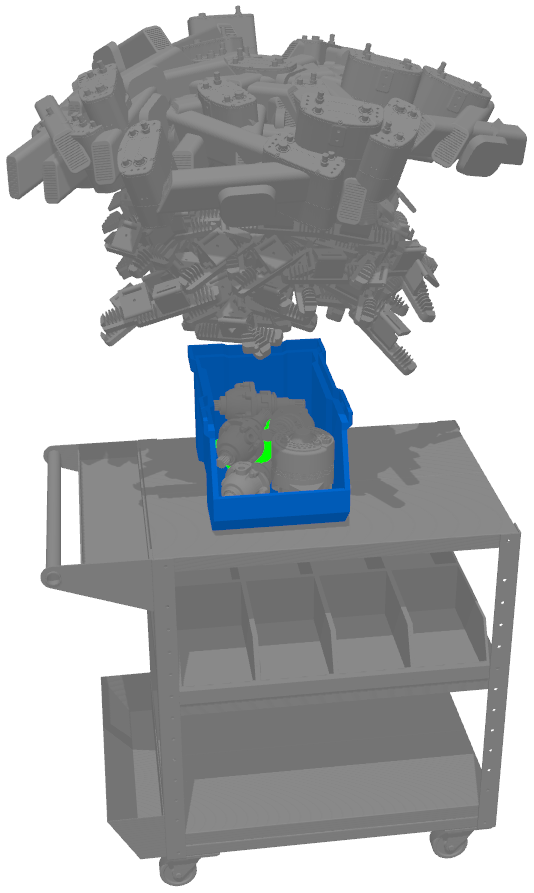
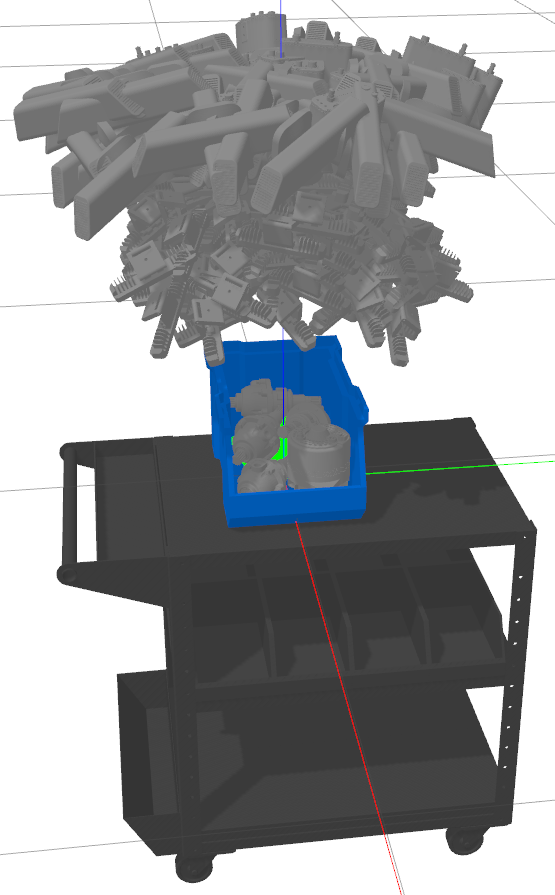
Added main algorithms for best views estimation.

diff --git a/tex/sections/best-views-estimation.tex b/tex/sections/best-views-estimation.tex
@@ -1,25 +1,77 @@
 \section{\scshape Best views estimation}
 \subsection*{Best views estimation}
-\begin{frame}{Estimation of the best sensor configuration}
+
+\begin{frame}{Reference surface point cloud}
 	\begin{itemize}
-		\item Given a set of observation positions
+		\item The first step in the processing pipeline includes the generation of the multi-object reference point cloud that is assembled using the CAD data and the objects poses given by the simulator, which is later on filtered with a voxel grid algorithm to perform a regular spatial partition and extract the points that are in the surface voxels centroids
+	\end{itemize}
+	\begin{figure}
+		\centering
+		\includegraphics[height=.27\textheight]{sensor-data-processing/multimodel-environment}
+		\includegraphics[height=.27\textheight]{sensor-data-processing/multimodel-pointclouds-with-cad}
+		\includegraphics[height=.27\textheight]{sensor-data-processing/multimodel-pointclouds}
+		\includegraphics[height=.27\textheight]{sensor-data-processing/cad-model-pointcloud}
+		\caption{The first image illustrates the color scene rendering in gazebo with the target objects in green while the second and third images display the reference point cloud that was generated from the CAD points data shown on the last image}
+	\end{figure}
+\end{frame}
+
+\begin{frame}{Sensors data analysis}
+	\begin{itemize}
+		\item Given a set of deployed sensors in the simulation world, for each sensor it is computed the voxelized point cloud of the observed target object(s) points:
 		\begin{itemize}
-			\item If only one sensor is available
+			\item Color segmentation is performed to identify the sensor image pixels that belong to the target object(s) (which have a unique pure green material)
+			\item For the selected pixels, the depth points are generated using the pin hole camera model
+			\item The generated point cloud is transformed from the sensor into the world coordinate system frame
 			\begin{itemize}
-				\item Analyze all sensors data from each observation position
-				\item Apply a voxel grid space partition to avoid reduce variability of the estimated surface area observed by each sensor
-				\item Choose the sensor that can observe the most surface area of the objects
+				\item Allows fast merging of point clouds generated from different sensors
+			\end{itemize}
+			\item A voxel grid filtering algorithm is applied to perform a regular space partition in which the points centroid are computed for each voxel
+			\begin{itemize}
+				\item Critical for allowing consistent evaluation of the object(s) observed surface percentage, even when the sensors have different resolution and are at different distances from the target object(s)
 			\end{itemize}
 		\end{itemize}
-		\item Given a set of observation positions
+	\end{itemize}
+\end{frame}
+
+
+\begin{frame}{Sensor data analysis}
+	\begin{figure}
+		\centering
+		\includegraphics[height=.32\textheight]{sensor-data-processing/sensors-best-view}\\
+		\vspace{0.5em}
+		\includegraphics[height=.32\textheight]{sensor-data-processing/rviz-sensor-view}
+		\includegraphics[height=.32\textheight]{sensor-data-processing/rviz-sensor-view-without-cad-with-model}
+		\caption{Color image rendered with the gazebo simulator (top image containing the scene and sensor) along with the generated point cloud for the target object taking into consideration the environment occlusions (bottom images, in which the green spheres are the observed points and the blue spheres are from the point cloud of the associated CAD model)}
+	\end{figure}
+\end{frame}
+
+
+\begin{frame}{Estimation of the best sensor configuration}
+	After having the processed data for each deployed sensor:
+	\begin{itemize}
+		\item If only one sensor is enough:
 		\begin{itemize}
-			\item If several sensors area available (type and quantity adjustable)
+			\item Compute the surface area percentage for each sensor
 			\begin{itemize}
-				\item Extract point clouds for each observation point
-				\item Using a RANSAC approach, choose randomly a set a N sensors
-				\item Merge the sensor data and estimate the observable surface area
-				\item At the end of a given number of iterations or if the observable area reaches a given minimum, terminate the search, keeping the best sensor configuration found
+				\item Given that both the reference point cloud and sensor data were filtered with a voxel grid with the same resolution and in the same coordinate system frame, computing the surface percentage can be efficiently computed by simply dividing the number of surface voxel points in the sensor data by the number of surface voxel points in the reference point cloud
 			\end{itemize}
+			\item Choose the sensor that can observe the most surface area percentage of the object(s)
+		\end{itemize}
+	\end{itemize}
+\end{frame}
+
+
+\begin{frame}{Estimation of the best sensor configuration}
+	After having the processed data for each deployed sensor:
+	\begin{itemize}
+		\item If several sensors can be used:
+		\begin{itemize}
+			\item Using a RANSAC approach, choose randomly a set of N sensors
+			\item Merge the sensor data from the selected sensors
+			\item Reapply the voxel filter algorithm to ensure that there are only one point per voxel
+			\item Estimate the observable surface area percentage for the selected sensors
+			\item If current subset of sensors achieved better observable surface percentage, then it becomes the current best views estimation for the sensor configuration
+			\item At the end of a given number of iterations or if the observable surface percentage area reaches a given threshold, the search is terminated, keeping the best sensor configuration found
 		\end{itemize}
 	\end{itemize}
 \end{frame}

diff --git a/tex/sections/sensors-deployment.tex b/tex/sections/sensors-deployment.tex
@@ -4,15 +4,18 @@
 	\begin{itemize}
 		\item For making the estimation of the sensor configuration computational feasible, the 3D continuous space was populated with a given set of sensors that were looking at a given point (with the sensor roll either 0º or random)
 		\item Several populations of sensors can be added to the world
+			\begin{itemize}
+				\item The 3D sensor models will be hidden at rendering time to avoid occlusion of sensor data
+			\end{itemize}
 		\item Each population is of a given sensor type and is deployed within a given region of interest 
 		\begin{itemize}
-			\item This allows to restrict the spatial distribution of the sensors, for example a given set of sensors should only be deployed in the walls or ceiling due to their weight, or it should be very close to the target object given its limited depth measurements range
+			\item This allows to restrict the spatial distribution of the sensors, for example a given set of sensors should be in the walls or ceiling due to their weight, or they should be close to the target object given their limited depth measurements range
 		\end{itemize}
 		\item Currently supported deployment configurations:
 		\begin{itemize}
 			\item Uniform or random deployment within a box
 			\item Uniform or random deployment within a cylinder
-			\item Uniform within a 2D grid (with a given set of rows and columns)
+			\item Uniform within a 2D grid (with a set of rows and columns)
 			\item Uniform along a line
 		\end{itemize}
 	\end{itemize}
@@ -20,7 +23,7 @@
 
 \begin{frame}{Sensors deployment}
 	\begin{itemize}
-		\item For the active perception environment, the sensors were deployed close to the target object, on the top, right and back side of the trolley
+		\item For the active perception environment, 450 sensors were deployed close to the target object, on the top, right and back side of the trolley
 		\item This was done to simulate the closest range in which a dynamically moving sensor attached to a robotic arm could move (taking into consideration the human safety and the sensor minimum measurement distance, that was 0.2 meters)
 	\end{itemize}
 	\begin{figure}
@@ -33,22 +36,26 @@
 
 \begin{frame}{Sensors deployment}
 	\begin{itemize}
-		\item For the single bin picking environments, given that the target object was inside the stacking box, the sensors were deployed close to the target object, but only on top of the trolley, on 3 layers (each with a different type of sensor)
+		\item For the single bin picking environments, given that the target object was inside the stacking box, the sensors were deployed close to the target object, but only on top of the trolley, on 3 layers (each with a different type of sensor).
+		\item In the world with minimal occlusions it was deployed 100 sensors while in the world with significant occlusions it was deployed 300 sensors
+			\begin{itemize}
+				\item Higher spatial sensor density given that the best views have tighter observation regions which could be missed with a sparse sensor deployment
+			\end{itemize}
 	\end{itemize}
 	\begin{figure}
 		\centering
-		\includegraphics[height=.4\textwidth]{sensor-deployment/bin-picking/gazebo-sensors}
-		\includegraphics[height=.4\textwidth]{sensor-deployment/bin-picking-with-occlusions/gazebo-sensors}
+		\includegraphics[height=.24\textwidth]{sensor-deployment/bin-picking/gazebo-sensors}
+		\includegraphics[height=.24\textwidth]{sensor-deployment/bin-picking-with-occlusions/gazebo-sensors}
 		\caption{Sensors deployment on the single bin picking environments}
 	\end{figure}
 \end{frame}
 
 \begin{frame}{Sensors deployment}
 	\begin{itemize}
-		\item For the multiple bin picking environment, given that there were multiple target objects (1 inside the stacking box, 1 on top and 2 on the shelves of the trolley), it was deployed 7 populations of sensors:
+		\item For the multiple bin picking environment, given that there were multiple target objects (1 inside the stacking box, 1 on top and 2 on the shelves of the trolley), it was deployed 450 sensors across 7 populations:
 		\begin{itemize}
-			\item 5 layers simulating fixed sensors on the walls and ceiling
-			\item 2 layers above the trolley, simulating dynamic sensors attached to a robotic arm
+			\item 5 populations simulating fixed sensors on the walls and ceiling
+			\item 2 populations above the trolley, simulating dynamic sensors attached to a robotic arm
 		\end{itemize}
 	\end{itemize}
 	\begin{figure}

diff --git a/tex/sections/modeling.tex b/tex/sections/modeling.tex
@@ -1,4 +1,4 @@
-\section{\scshape Sensors modeling}
+\section{\scshape Sensors and environment modeling}
 \subsection*{Sensors modeling}
 \begin{frame}{Depth sensors modeling}
 	\begin{itemize}
@@ -39,7 +39,6 @@
 \end{frame}
 
 
-\section{\scshape Environments modeling}
 \subsection*{Environments modeling}
 \begin{frame}{Environments modeling}
 	\begin{itemize}

diff --git a/master.tex b/master.tex
@@ -46,6 +46,7 @@
 \input{tex/sections/modeling}
 \input{tex/sections/sensors-deployment}
 \input{tex/sections/best-views-estimation}
+\input{tex/sections/conclusions}
 \input{tex/sections/questions}
 
 

diff --git a/tex/sections/conclusions.tex b/tex/sections/conclusions.tex
@@ -1,0 +1,7 @@
+\section{\scshape Conclusions}
+\subsection*{Conclusions}
+\begin{frame}{Conclusions}
+	\begin{itemize}
+		\item ...
+	\end{itemize}
+\end{frame}

diff --git a/tex/sections/questions.tex b/tex/sections/questions.tex
@@ -1,4 +1,4 @@
-\section*{}\label{sec:questions}
+\section*{}
 
 \begin{frame}{}
 	\begin{center}
